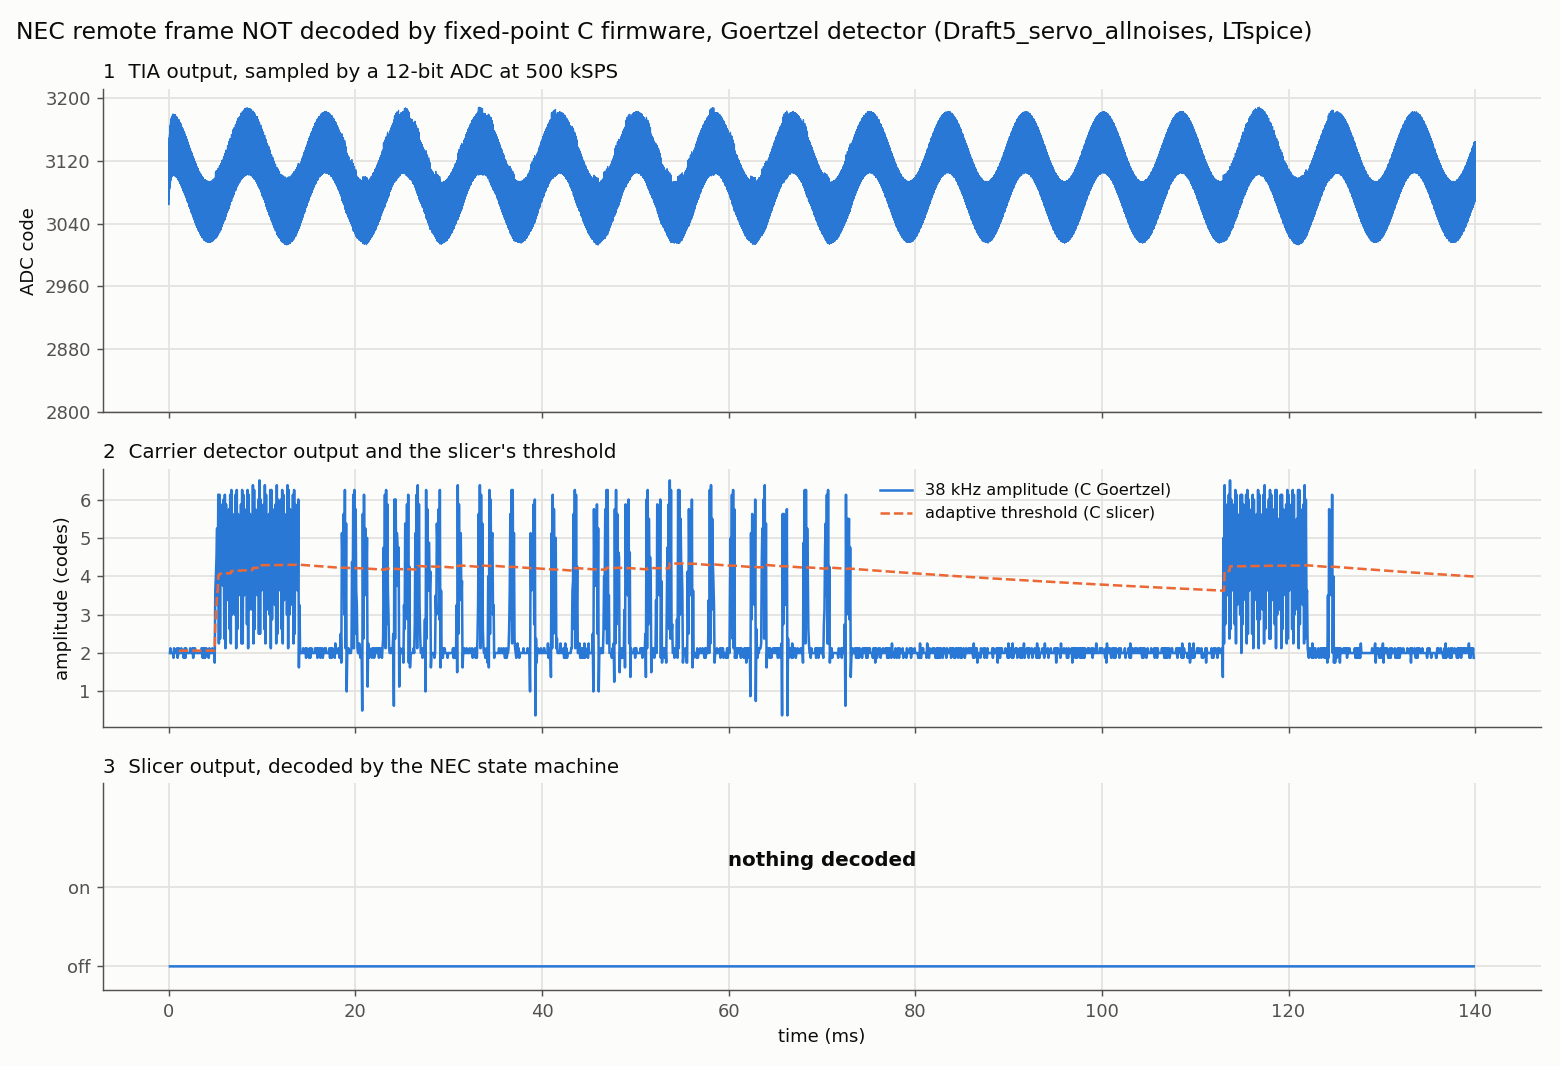
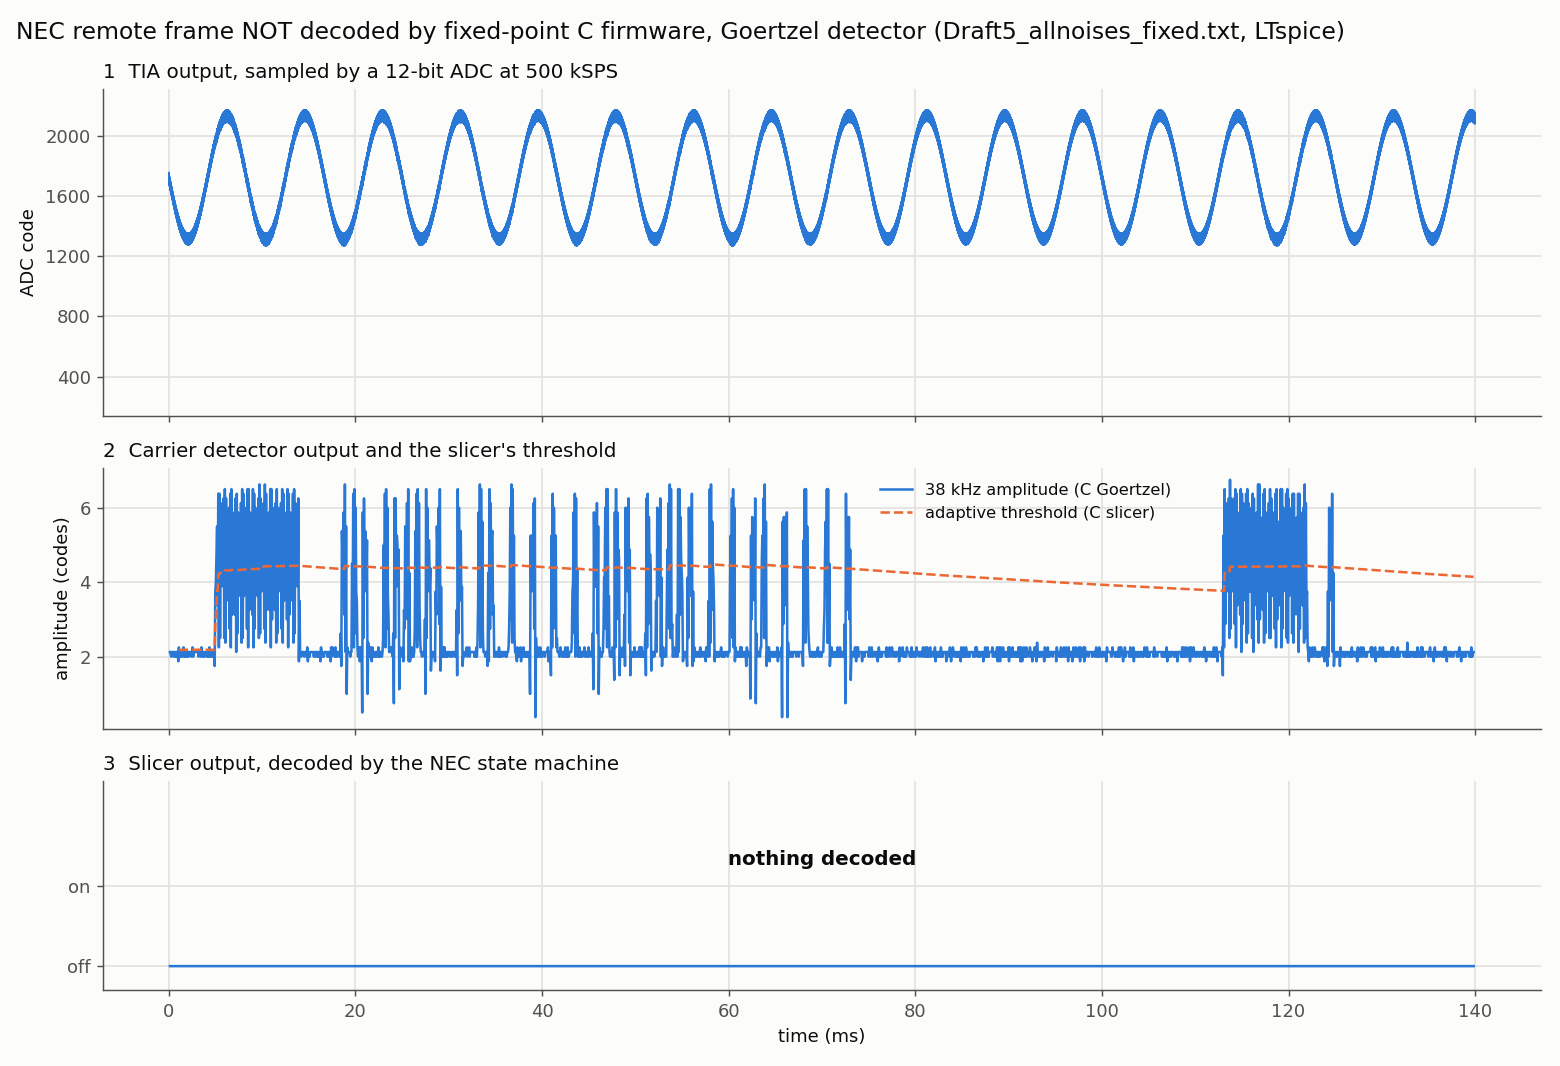
Adding Figures

diff --git a/ir-receiver/DSP/comparator_demo.py b/ir-receiver/DSP/comparator_demo.py
@@ -1,0 +1,84 @@
+"""Why the analog comparator path fails: its output in silence vs during the NEC leader.
+
+  python comparator_demo.py                        # ../sim/exports/Draft5_allnoises_fixed.txt
+  python comparator_demo.py <export> --out x.png
+
+Top: V(out) over the first 20 ms, with the 9 ms leader burst shaded.
+Bottom: 300 us zooms of silence and of the leader. If the two look the same,
+the comparator is switching on the interferer, not on the remote.
+"""
+import argparse, os
+import numpy as np
+import matplotlib.pyplot as plt
+import ir_dsp as d
+
+INK, INK2, SURFACE, GRID = "#0b0b0b", "#52514e", "#fcfcfb", "#e4e3df"
+BLUE, ORANGE = "#2a78d6", "#eb6834"          # dataviz default slots 1 and 2
+LEAD0, LEAD1 = 5e-3, 14e-3                   # the PWL stimulus starts the leader at 5 ms
+
+
+def edges_per_ms(t, hi, a, b):
+    m = (t >= a) & (t < b)
+    return np.sum(np.abs(np.diff(hi[m].astype(int)))) / ((b - a) * 1e3)
+
+
+def style(ax):
+    ax.set_facecolor(SURFACE)
+    for s in ("top", "right"): ax.spines[s].set_visible(False)
+    for s in ("left", "bottom"): ax.spines[s].set_color(INK2)
+    ax.tick_params(colors=INK2, labelsize=9)
+    ax.grid(True, color=GRID, lw=0.8); ax.set_axisbelow(True)
+
+
+def main():
+    ap = argparse.ArgumentParser()
+    ap.add_argument("file", nargs="?",
+                    default=os.path.join(os.path.dirname(os.path.abspath(__file__)),
+                                         "..", "sim", "exports", "Draft5_allnoises_fixed.txt"))
+    ap.add_argument("--node", default="V(out)")
+    ap.add_argument("--out", default=os.path.join(os.path.dirname(os.path.abspath(__file__)),
+                                                  "comparator_allnoises.png"))
+    a = ap.parse_args()
+
+    t, v = d.load_ltspice_txt(a.file, a.node)
+    hi = v > 1.65
+    quiet, burst = edges_per_ms(t, hi, 0, LEAD0), edges_per_ms(t, hi, LEAD0, LEAD1)
+    env = d.decode_digital_bursts(t, v)            # same path as ir_dsp.py --out-node
+    frames, _, _ = d.decode(t[::10], env[::10])
+
+    fig = plt.figure(figsize=(10, 6.2), facecolor=SURFACE)
+    gs = fig.add_gridspec(2, 2, height_ratios=[1, 1.1], hspace=0.55, wspace=0.12)
+    top = fig.add_subplot(gs[0, :]); style(top)
+    m = t < 20e-3
+    top.axvspan(LEAD0 * 1e3, LEAD1 * 1e3, color=ORANGE, alpha=0.12, lw=0)
+    top.text((LEAD0 + LEAD1) / 2 * 1e3, 3.62, "9 ms NEC leader should be here",
+             ha="center", va="bottom", fontsize=9, color=INK2)
+    top.plot(t[m] * 1e3, v[m], color=BLUE, lw=0.6)
+    top.set_xlim(0, 20); top.set_ylim(-0.6, 4.1)
+    top.set_xlabel("time (ms)", color=INK2, fontsize=9); top.set_ylabel("V(out) (V)", color=INK2, fontsize=9)
+    top.set_title("Comparator output: toggles continuously, with or without the remote",
+                  loc="left", fontsize=11, color=INK)
+
+    for col, (t0, lab, rate) in enumerate([(2.0e-3, "silence (2.0 ms)", quiet),
+                                           (8.0e-3, "during the leader (8.0 ms)", burst)]):
+        ax = fig.add_subplot(gs[1, col]); style(ax)
+        z = (t >= t0) & (t < t0 + 300e-6)
+        ax.plot((t[z] - t0) * 1e6, v[z], color=BLUE, lw=1.4)
+        ax.set_xlim(0, 300); ax.set_ylim(-0.6, 3.9)
+        ax.set_xlabel("µs", color=INK2, fontsize=9)
+        if col == 0: ax.set_ylabel("V(out) (V)", color=INK2, fontsize=9)
+        else: ax.tick_params(labelleft=False)
+        ax.set_title(f"{lab}: {rate:.0f} edges/ms", loc="left", fontsize=10, color=INK)
+
+    res = "no frame decoded" if not frames else "decoded: " + "; ".join(
+        "REPEAT" if f["repeat"] else f"0x{f['addr']:02X}/0x{f['cmd']:02X}" for f in frames)
+    fig.text(0.125, 0.015, f"{os.path.basename(a.file)}  ·  {res}  ·  "
+             f"~{quiet / 2:.0f} kHz switching = the 45 kHz interferer, not the 38 kHz remote",
+             fontsize=8.5, color=INK2)
+    fig.savefig(a.out, dpi=130, facecolor=SURFACE)
+    print(f"quiet {quiet:.1f} edges/ms, burst {burst:.1f} edges/ms; {res}")
+    print("wrote", os.path.basename(a.out))
+
+
+if __name__ == "__main__":
+    main()

diff --git a/ir-receiver/DSP/demo.py b/ir-receiver/DSP/demo.py
@@ -93,7 +93,8 @@ def main():
     ax[0].set_ylim(lo - 1.25 * span, hi + 0.15 * span)     # trace on top, inset below
     ax[0].yaxis.set_major_locator(plt.MaxNLocator(6, integer=True))
     ax[0].set_ylabel("ADC code")
-    ax[0].set_title("1  TIA output, sampled by a 12-bit ADC at 500 kSPS", loc="left", fontsize=11)
+    where = {"V(tia)": "TIA output", "V(bpf)": "Band-pass output"}.get(a.node, a.node)
+    ax[0].set_title(f"1  {where}, sampled by a 12-bit ADC at 500 kSPS", loc="left", fontsize=11)
 
     lead = [f for f in frames if not f["repeat"]]
     if lead:

diff --git a/ir-receiver/DSP/RESULTS.md b/ir-receiver/DSP/RESULTS.md
@@ -19,7 +19,7 @@ No hardware has been built yet.
 | Original circuit, 100 nA remote | fails: never switches | decodes | decodes |
 | After analog fixes, 20 nA remote | decodes | decodes | decodes |
 | 100 nA lamp interferer at 45 kHz | false-triggers continuously | decodes from 30 nA | decodes from 20 nA |
-| All noise sources at once, 20 nA remote (LTspice) | not tested | **fails** | **decodes** |
+| All noise sources at once, 20 nA remote (LTspice) | **fails**: toggles at 45 kHz throughout | **fails** | **decodes** |
 | 45 kHz rejection relative to 38 kHz | 7.4 dB (one band-pass), ~15 dB (two) | ~25 dB | ~70 dB |
 | Arithmetic | — | 64-bit products | 16×16→32-bit only |
 
@@ -78,17 +78,24 @@ No hardware has been built yet.
 
 ## Goertzel vs I/Q under combined interference
 
-The hardest LTspice run combined a 20 nA remote with 1 µA of steady light,
-2 µA ± 1 µA of 120 Hz flicker, a 100 nA 45 kHz interferer and ~1.4 nA rms of
-broadband noise, on the servo circuit. (This run used the reversed
-photocurrent source; the detectors only see the AC carrier, whose sign does not
-matter, so the Goertzel vs I/Q comparison stands. It has not been re-run with
-the real polarity.)
+The hardest LTspice run (`Draft5_allnoises_fixed.txt`) combined a 20 nA
+remote with 1 µA of steady light, 2 µA ± 1 µA of 120 Hz flicker, a 45 kHz
+interferer swinging 0–200 nA (100 nA amplitude) and ~1.4 nA rms of broadband
+noise. The circuit is the ×10-gain version with one band-pass and no servo, with
+every source injecting in the real photodiode direction. V(tia) stays within
+1.02–1.75 V, so nothing clips; the difference between the paths is purely how
+well each rejects the 45 kHz interferer. (An earlier run with the source
+reversed gave the same three outcomes.)
+
+- **The comparator fails.** Its output switches at ~90 edges/ms (45 kHz) in
+  silence and during the 9 ms leader alike, so the remote is invisible in it.
+  The band-pass passes the 100 nA interferer at a larger amplitude than the
+  20 nA remote, and no threshold can separate them.
 
 - **Goertzel fails.** Its 128-sample (256 µs) window cannot separate 38 kHz
   from 45 kHz well: about 5% of the interferer leaks through, which lifts the
-  envelope floor to ~2 codes against ~6-code peaks. The slicer's 4× SNR gate
-  never opens (peak/floor reached 3.16). Lowering the gate only recovers the
+  envelope floor to ~2 codes against ~6.5-code peaks. The slicer's 4× SNR gate
+  never opens (peak/floor ≈ 3). Lowering the gate only recovers the
   repeat code, because 38/45 kHz beating breaks up the bursts. The float
   Goertzel fails identically, so this is the algorithm's limit, not the port's.
 - **I/Q decodes it.** The firmware version mixes to baseband with a 250-entry
@@ -102,8 +109,51 @@ the real polarity.)
   codes of a float model of the same structure. In the sweep it matches or
   beats the 255-tap reference at every level.
 
-![Goertzel on the all-noises run](demo_goertzel_allnoises.png)
+![Comparator on the all-noises run](comparator_allnoises.png)
+![Goertzel on the same run](demo_goertzel_allnoises.png)
 ![I/Q on the same run](demo_iq_allnoises.png)
+
+## Interferer frequency sweep (LTspice)
+
+Same circuit and noise as above, one variable changed per run (`sim/drafts/Draft6_*.asc`).
+"Ratio" is the Goertzel envelope's leader peak over its silent floor; the slicer needs ≥ 4.
+
+| Run | Comparator | Goertzel (C) | I/Q (C) |
+|---|---|---|---|
+| 45 kHz interferer (baseline) | fails (45 kHz switching) | fails (ratio 3.1) | decodes |
+| 60 kHz interferer | fails (60 kHz switching) | **decodes** (floor < 0.1 code) | decodes |
+| 100 kHz interferer | decodes | decodes | decodes |
+| No interferer | decodes | decodes | decodes |
+| 45 kHz, flicker 60 Hz / 100 Hz instead of 120 Hz | fails | fails (ratio 3.0 / 3.1) | decodes |
+
+The Goertzel's weakness is specifically an interferer inside its Hann main lobe
+(±2 bins = ±7.8 kHz around 38 kHz); at 22 kHz away it is fine. The flicker
+frequency does not matter to any path. The comparator survives only when the
+analog band-pass and the TIA's ~103 kHz pole remove the interferer (100 kHz).
+
+![Goertzel with a 60 kHz interferer](demo_goertzel_int60k.png)
+
+## Where to put the ADC: TIA vs band-pass vs ×10 output
+
+Same six LTspice runs, same C firmware, ADC moved along the analog chain
+(values from the `.raw` files; "ratio" = Goertzel leader peak / silent floor, gate ≥ 4).
+
+| Tap point | Carrier at ADC | 45 kHz run: Goertzel | 45 kHz run: I/Q | Notes |
+|---|---|---|---|---|
+| TIA output | ~4.5 codes | fails (ratio 3.1) | decodes | flicker ±410 codes dominates the ADC range |
+| Band-pass output | ~24 codes | **decodes (ratio 5.9)** | decodes | 2.40–2.59 V, flicker gone |
+| ×10 output | ~226 codes | decodes (ratio 5.9) | decodes | 1.63–3.35 V: exceeds a 3.3 V ADC 0.6% of the time |
+
+All other runs (60 kHz, 100 kHz, no interferer, 60/100 Hz flicker) decode on every
+path at every tap. The analog band-pass's few dB of extra 45 kHz rejection is
+enough to lift the Goertzel over its SNR gate; the ×10 stage adds amplitude but no
+selectivity, so it does not improve the ratio further. I/Q's peak/floor stays
+~70 at every tap because the white noise is amplified along with the signal. A
+larger carrier still matters on hardware, where real ADC noise (not modelled here)
+is a code or more. The ×10 output needs rescaling (and centring at ~1.65 V) for a
+3.3 V ADC.
+
+![Goertzel decoding the 45 kHz all-noises run from the band-pass output](demo_goertzel_bpf_allnoises.png)
 
 ## Limits of this study
 
@@ -128,7 +178,9 @@ python test_ir_rx.py            # C receiver end to end vs the Python pipeline
 python test_iq_fixed.py         # C I/Q detector: bit-exact + float + decodes
 python sweep_fixed.py           # decode-rate chart (decode_rate.png)
 python demo.py                  # pipeline figure (demo.png) from ../sim/exports/Draft4_gain_20nA.txt
-python demo.py ../sim/exports/Draft5_servo_allnoises.txt --detector iq --out demo_iq_allnoises.png
+python demo.py ../sim/exports/Draft5_allnoises_fixed.txt --detector iq --out demo_iq_allnoises.png
+python demo.py ../sim/exports/Draft5_allnoises_fixed.txt --detector goertzel --out demo_goertzel_allnoises.png
+python comparator_demo.py       # comparator figure (comparator_allnoises.png) from the same run
 ```
 The tests build with MSYS2 GCC (`C:/msys64/ucrt64/bin/gcc.exe`, or set `GCC`).
 LTspice exports are read from `../sim/exports/Draft*.txt` (gitignored; re-export from `../sim/drafts/*.asc`).

diff --git a/ir-receiver/DSP/CLAUDE.md b/ir-receiver/DSP/CLAUDE.md
@@ -28,12 +28,14 @@ Write-up of the 2026-09-25 simulation study: `RESULTS.md`.
   - `gz_run.c`, `ir_run.c`: host test drivers, `-iq` selects I/Q (`*.exe` are build outputs).
 - `test_goertzel_fixed.py` — table generator + build; checks Goertzel bit-exact vs an integer model and vs float.
 - `test_iq_fixed.py` — I/Q detector bit-exact vs integer model, vs a float model of the same
-  structure, and decodes (incl. `../sim/exports/Draft5_servo_allnoises.txt`, where Goertzel fails).
+  structure, and decodes (pass `../sim/exports/Draft5_allnoises_fixed.txt` for the all-noises run).
 - `test_ir_rx.py` — C receiver end to end vs the Python pipeline (frames + slicer bit agreement).
 - `sweep_fixed.py` — decode-rate chart `decode_rate.png` (data in `out/decode_rate.json`).
 - `demo.py` — one-figure pipeline demo `demo.png` (ADC codes → C envelope + threshold →
   slicer bits with decoded bytes); `python demo.py <export> [--detector iq] --out x.png`.
   `demo_goertzel_allnoises.png` / `demo_iq_allnoises.png` are the side-by-side failure/success pair.
+- `comparator_demo.py` — `comparator_allnoises.png`: comparator V(out) in silence vs during the
+  leader (same 45 kHz switching in both → the analog path's failure).
 - `nec_0x04_0x08.pwl` (100 nA), `nec_20nA.pwl` — NEC photocurrent stimuli for LTspice.
 - LTspice working schematics live in `../sim/drafts/` (Draft3_nec, Draft4_gain*, Draft5_servo*; PWL paths are
   relative, `..\..\DSP\*.pwl`); their waveform exports live in `../sim/exports/` (gitignored, 6-48 MB each).
@@ -71,9 +73,14 @@ LTspice setup: `I1 +5V TIA_IN PWL file=nec.pwl` in parallel with the BPW34 model
 - DSP decodes the LTspice NEC frame at 100 nA and 20 nA (all three demodulators).
 - Sweep (10 trials/point, `sweep_fixed.py`): all methods 100% from 20 nA clean; with a
   100 nA 45 kHz interferer, I/Q (C and float) and FIR from 20 nA, Goertzel from 30 nA.
-- `../sim/exports/Draft5_servo_allnoises.txt` (exported without an extension, renamed; 20 nA remote + 1 µA + 120 Hz flicker +
-  100 nA @45 kHz + white noise, full 140 ms): Goertzel (C and float) decodes NOTHING —
-  45 kHz leakage lifts the floor to ~2 codes, peak/floor 3.16 < SNR gate 4. I/Q (C) decodes it.
+- `../sim/exports/Draft5_allnoises_fixed.txt` (2026-09-25; CORRECT photocurrent polarity, all
+  sources VDD→TIA input, U1 on VDD, no servo, one band-pass + ×10; 20 nA remote + 1 µA +
+  2 µA ± 1 µA @120 Hz + SINE(100n 100n 45k) + white noise, 140 ms; converted from
+  `sim/drafts/Draft5_servo.raw`): V(tia) 1.02–1.75 V, no clipping. Comparator: nothing
+  (≈90 edges/ms = 45 kHz, silence and leader alike). Goertzel (C and float): nothing
+  (floor ~2 codes, peak ~6.5, peak/floor ≈ 3 < gate 4). I/Q (C, bit-exact) and float FIR:
+  0x04/0x08 + REPEAT. `Draft5_servo_allnoises.txt` is the older reversed-polarity run
+  (same outcomes).
 - Goertzel N=64 only gave −4.6 dB at 45 kHz → false triggers; N=128 gives −25 dB.
 - Fixed-point C = float: Goertzel bit-exact vs integer model (≤0.16 code vs float),
   slicer 100% bit agreement, identical decoded frames on every test input.
@@ -101,7 +108,10 @@ LTspice setup: `I1 +5V TIA_IN PWL file=nec.pwl` in parallel with the BPW34 model
   (`I1 N002 VDD` pulls current OUT of the TIA input). The PCB has D1 cathode → VDD,
   anode → U1 pin 2 (checked in the .kicad_pcb), so real light pushes current IN and the
   TIA output goes DOWN from ~2.5 V toward 0 V. Model the diode as `I VDD <tia_in> ...`.
-  AC/carrier results (comparator, DSP decodes) don't depend on the sign.
+  AC/carrier results (comparator, DSP decodes) don't depend on the sign. FIXED in
+  `sim/drafts/Draft5_servo` on 2026-09-25 (all 5 sources flipped, U1 V+ back on VDD);
+  the other drafts still have the reversed source. Recurring user wiring error: U1's V+ pin
+  ends up on VDC/Vt instead of VDD → TIA pinned at ~1 V, V(out) constant; check it first.
 - TIA saturates at ~7.5 µA DC photocurrent (2.5 V headroom down to ~0 V / 330k) — the
   original estimate was right. A "3.3 µA / 48% clipped" result recorded on 2026-09-25 came
   from the reversed source and is WRONG for the real board; with the real polarity,
